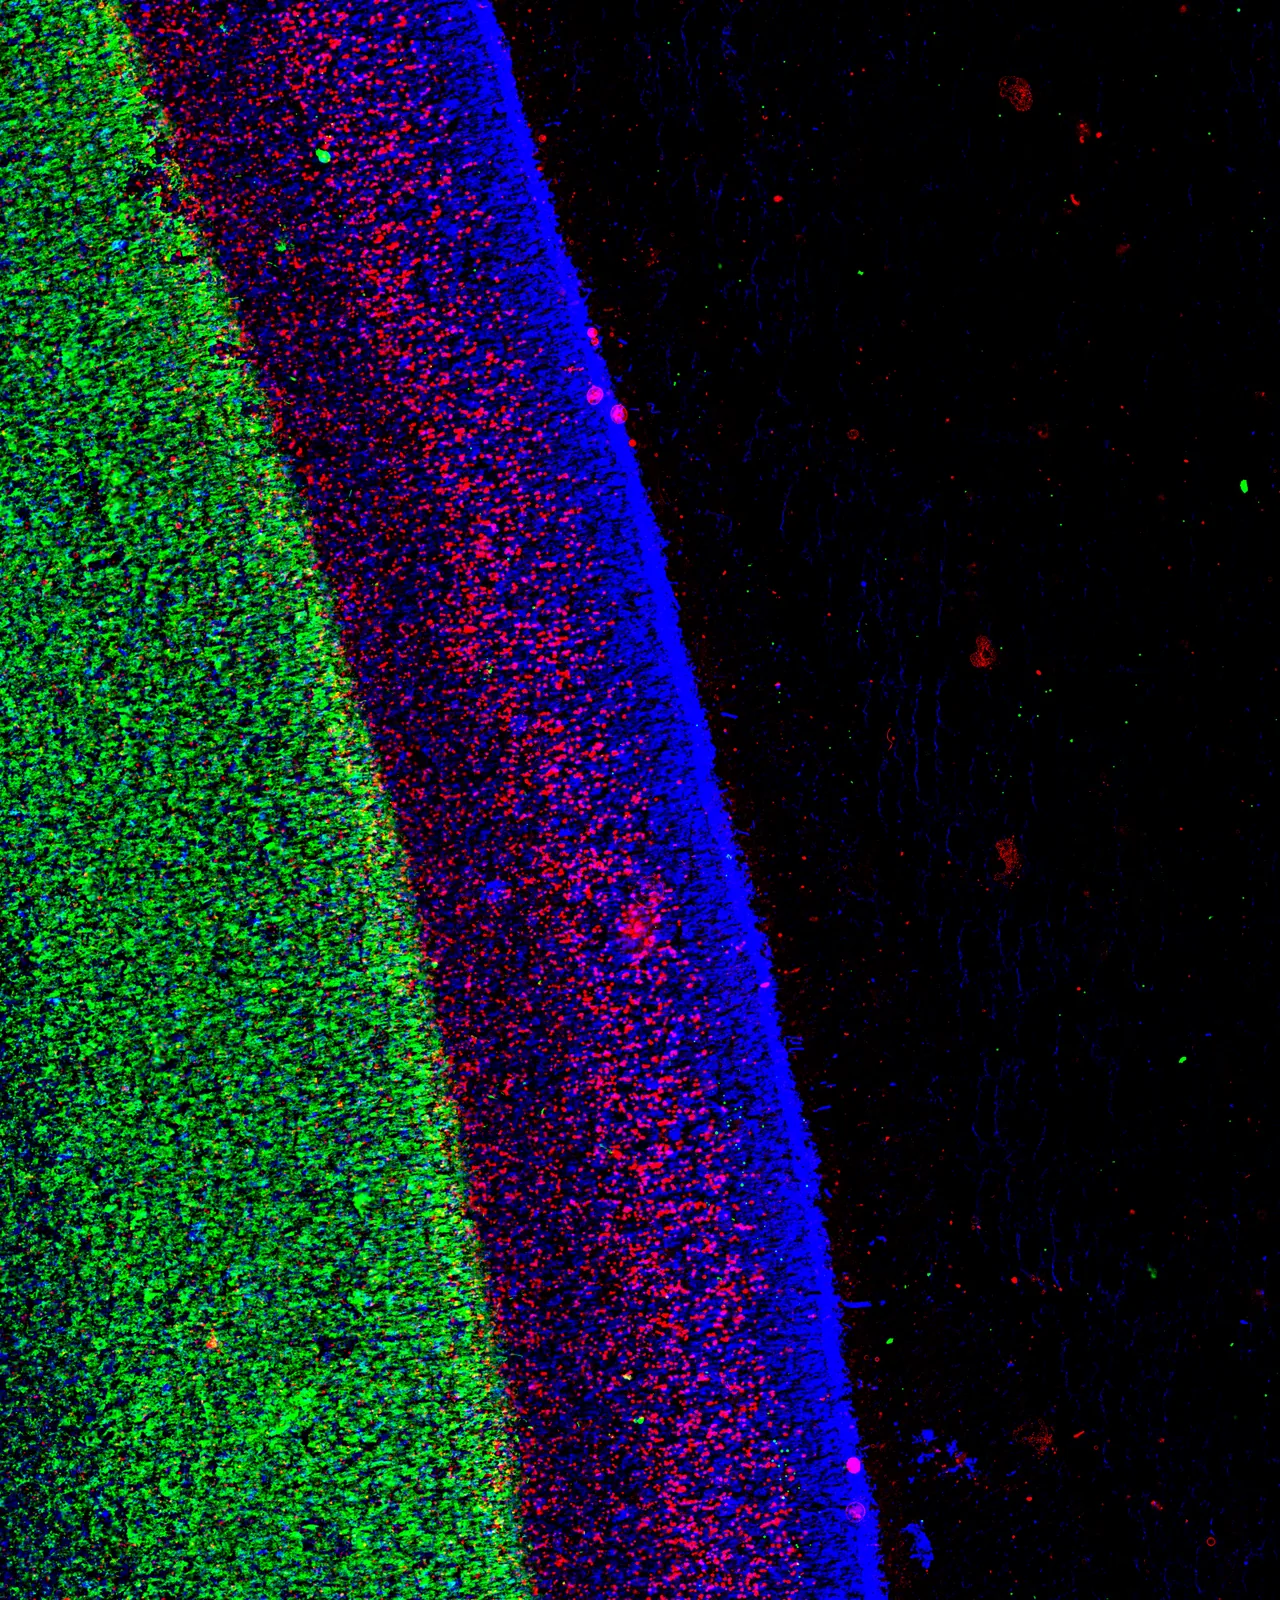
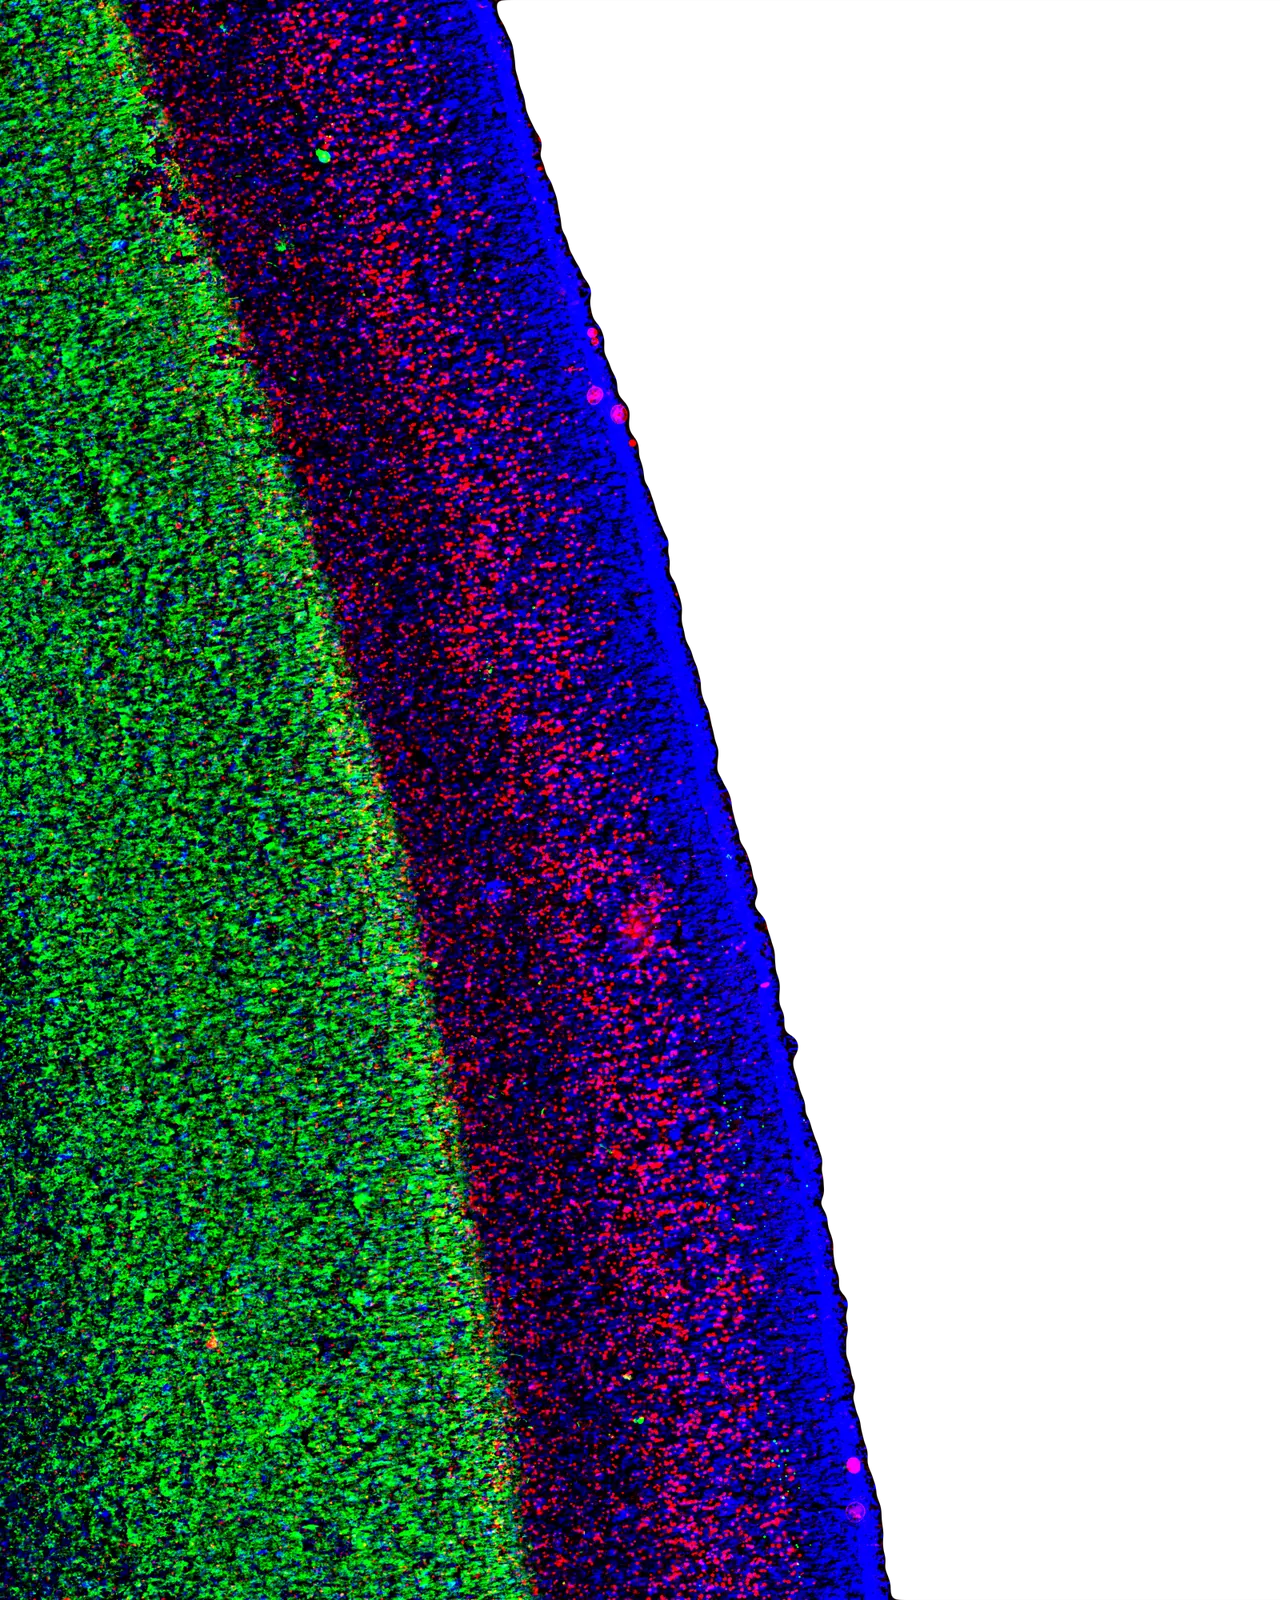
Tissue-only three-colour cortex image; lower blocks match the figure grid width
The glass beyond the pial band of the three-colour image is now transparent, which
also drops the sparse specks there; the pial edge comes from a smoothed signed
distance, and the crop's top, bottom and left borders are treated as tissue so they
are not nicked. The Also block, Projects, Publications, Contact and the footer now
run to the same right edge as the figure grid above them.

diff --git a/assets/style.css b/assets/style.css
@@ -182,8 +182,10 @@ a.card:hover { border-color: var(--accent); transform: translateY(-2px); text-de
   margin-left: max(0px, calc((100% - 1240px) / 2 - var(--shift))); margin-right: auto;
 }
 .hero.wrap { padding-left: 20px; padding-right: 20px; margin-top: 0; margin-bottom: 0; }
+#about.about { width: min(920px, calc(100% - 40px)); }
+/* the blocks after the research figures run to the same right edge as the figure grid (1200 px of content) */
+#projects, #publications, #contact, .footer.wrap { width: min(1200px, calc(100% - 40px)); max-width: none; }
 #about.about, #projects, #publications, #contact, .footer.wrap {
-  width: min(920px, calc(100% - 40px));
   margin-left: max(20px, calc((100% - 1240px) / 2 - var(--shift) + 20px)); margin-right: auto;
 }
 .hero {
@@ -317,4 +319,3 @@ a.card:hover { border-color: var(--accent); transform: translateY(-2px); text-de
   .zoomer, .scrubber { top: 66px; height: calc(100vh - 80px); }
 }
 .wrap.wide > .section { margin-left: 0; margin-right: auto; width: 100%; }
-.wrap.wide > .section.also { max-width: 920px; }

diff --git a/index.html b/index.html
@@ -223,7 +223,7 @@
         <div class="figure-pair">
           <figure class="figure"><img src="assets/img/cyto/cp_cells.webp" alt="Cells of the fetal cortical plate at 0.5 micrometre per pixel" loading="lazy" width="1280" height="1600">
             <figcaption>Cortical plate cells, 0.5&nbsp;µm per pixel.</figcaption></figure>
-          <figure class="figure dark-figs"><img src="assets/img/cyto/ihc_layers.webp" alt="Three immunostained markers in red, green and blue across the fetal cortical layers" loading="lazy" width="1280" height="1600">
+          <figure class="figure"><img src="assets/img/cyto/ihc_layers.webp" alt="Three immunostained markers in red, green and blue across the fetal cortical layers" loading="lazy" width="1280" height="1600">
             <figcaption>Three immunostained markers, one per colour, mark different layers of the same wall.</figcaption></figure>
         </div>
       </div>

diff --git a/tools/media_ihc_alpha.py b/tools/media_ihc_alpha.py
@@ -1,0 +1,36 @@
+"""Three-colour immunostained crop of the fetal cortical wall with the glass made transparent.
+
+Right of the blue pial band is glass with sparse coloured specks.  Tissue = blurred signal above threshold, largest
+piece, holes filled; the alpha comes from a smoothed signed distance to that outline (smooth, anti-aliased edge).
+Window: level 2 (2 um/px) x 15600-17200, y 6800-8800 of the registered 7-marker canvas (markers not named on the site).
+usage: python media_ihc_alpha.py SITE_DIR
+"""
+import os, sys
+os.environ.setdefault("OMP_NUM_THREADS", "8")
+import numpy as np, tifffile, zarr
+from PIL import Image
+from scipy import ndimage as ndi
+from skimage import morphology
+SITE = sys.argv[1]
+P1 = "/home/users/jignesh/neuroglancer/ihc7_panels_registered/panel1_NeuN-green_CTIP2-red_Reelin-blue_0p5um.tif"
+t = tifffile.TiffFile(P1)
+a = np.asarray(zarr.open(t.aszarr(level=2), mode="r")[6800:8800, 15600:17200])        # (2000, 1600, 3), 2 um/px
+sig = ndi.gaussian_filter(a.astype(np.float32).max(-1), 4.0)                         # ~8 um
+thr = float(os.environ.get("THR", 45))      # high enough that the dim halo and specks on the pia fall outside
+m = sig > thr
+lab, n = ndi.label(m)
+m = lab == 1 + int(np.argmax(ndi.sum(m, lab, range(1, n + 1))))                     # the wall; specks are separate
+# the tissue runs on past the top, bottom and left of the crop: pad those sides as tissue while cleaning,
+# so holes and the opening do not nick the crop border
+P = 24
+m = np.pad(m, ((P, P), (P, 0)), constant_values=True)
+m = ndi.binary_fill_holes(m)
+m = morphology.opening(m, morphology.disk(16))                                       # ~30 um: no specks or threads on the pia
+d = ndi.distance_transform_edt(m) - ndi.distance_transform_edt(~m)
+d = ndi.gaussian_filter(d.astype(np.float32), 5.0)[P:-P, P:]
+m = m[P:-P, P:]
+alpha = np.clip(0.5 + d / 1.1, 0, 1)
+im = Image.fromarray(np.dstack([a, (alpha * 255).round()]).astype(np.uint8), "RGBA")
+im.thumbnail((1600, 1600), Image.Resampling.LANCZOS)
+im.save(f"{SITE}/assets/img/cyto/ihc_layers.webp", quality=82, alpha_quality=80, method=6)
+print(im.size, "tissue", round(m.mean(), 3), "threshold", thr, os.path.getsize(f"{SITE}/assets/img/cyto/ihc_layers.webp") // 1024, "KB")
